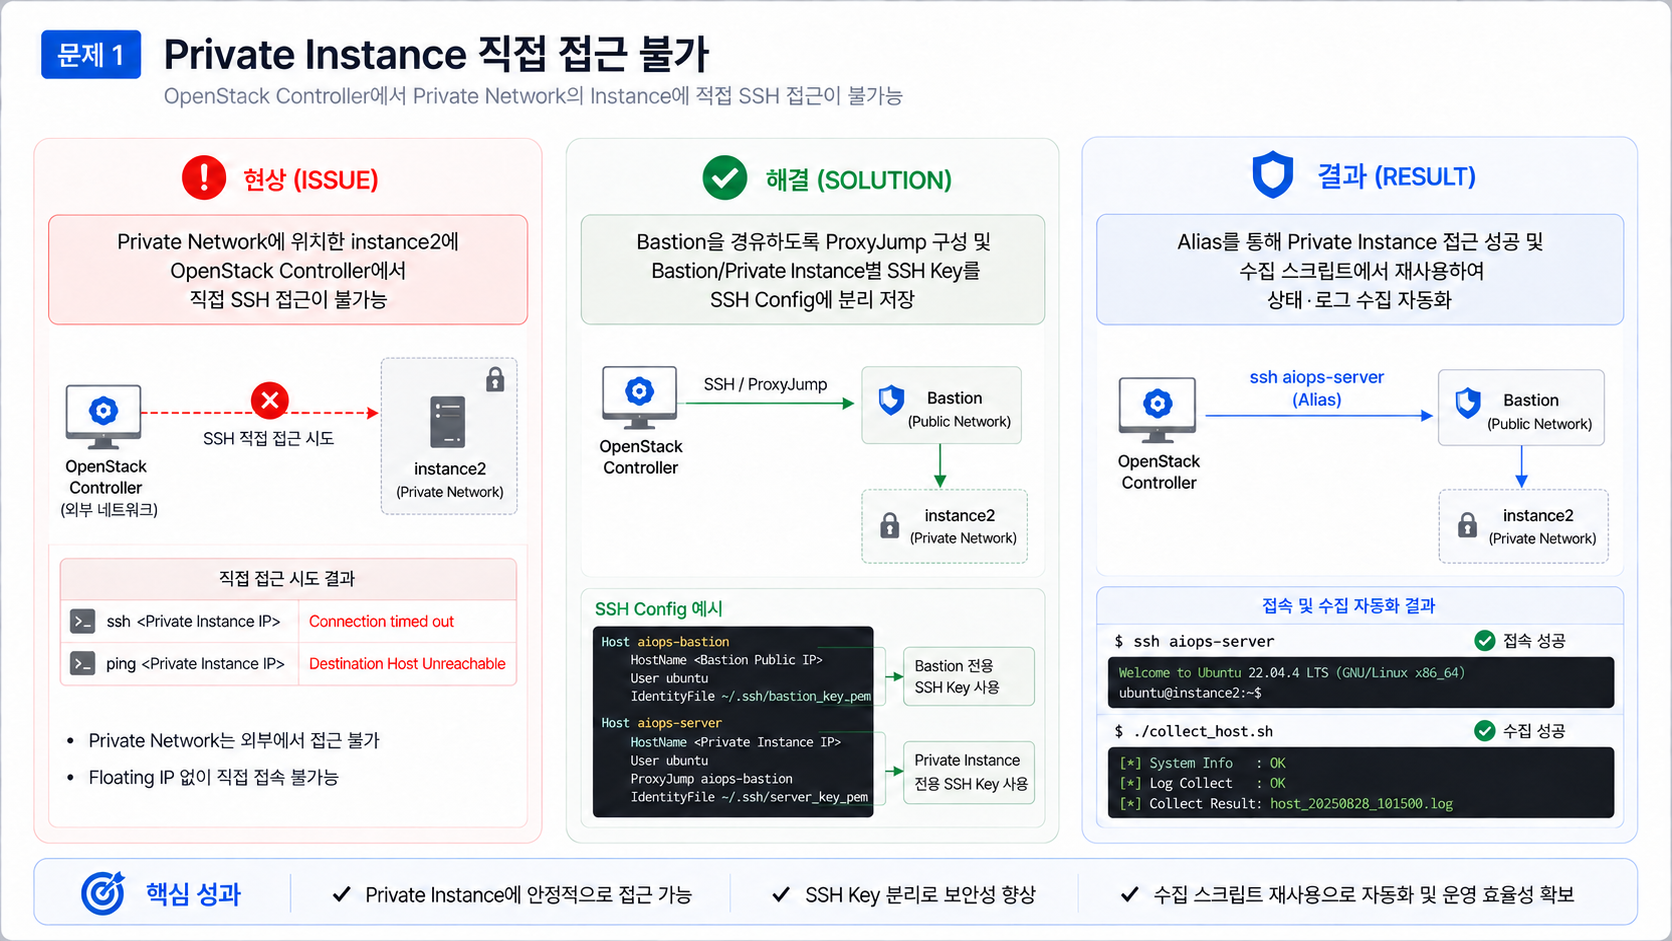
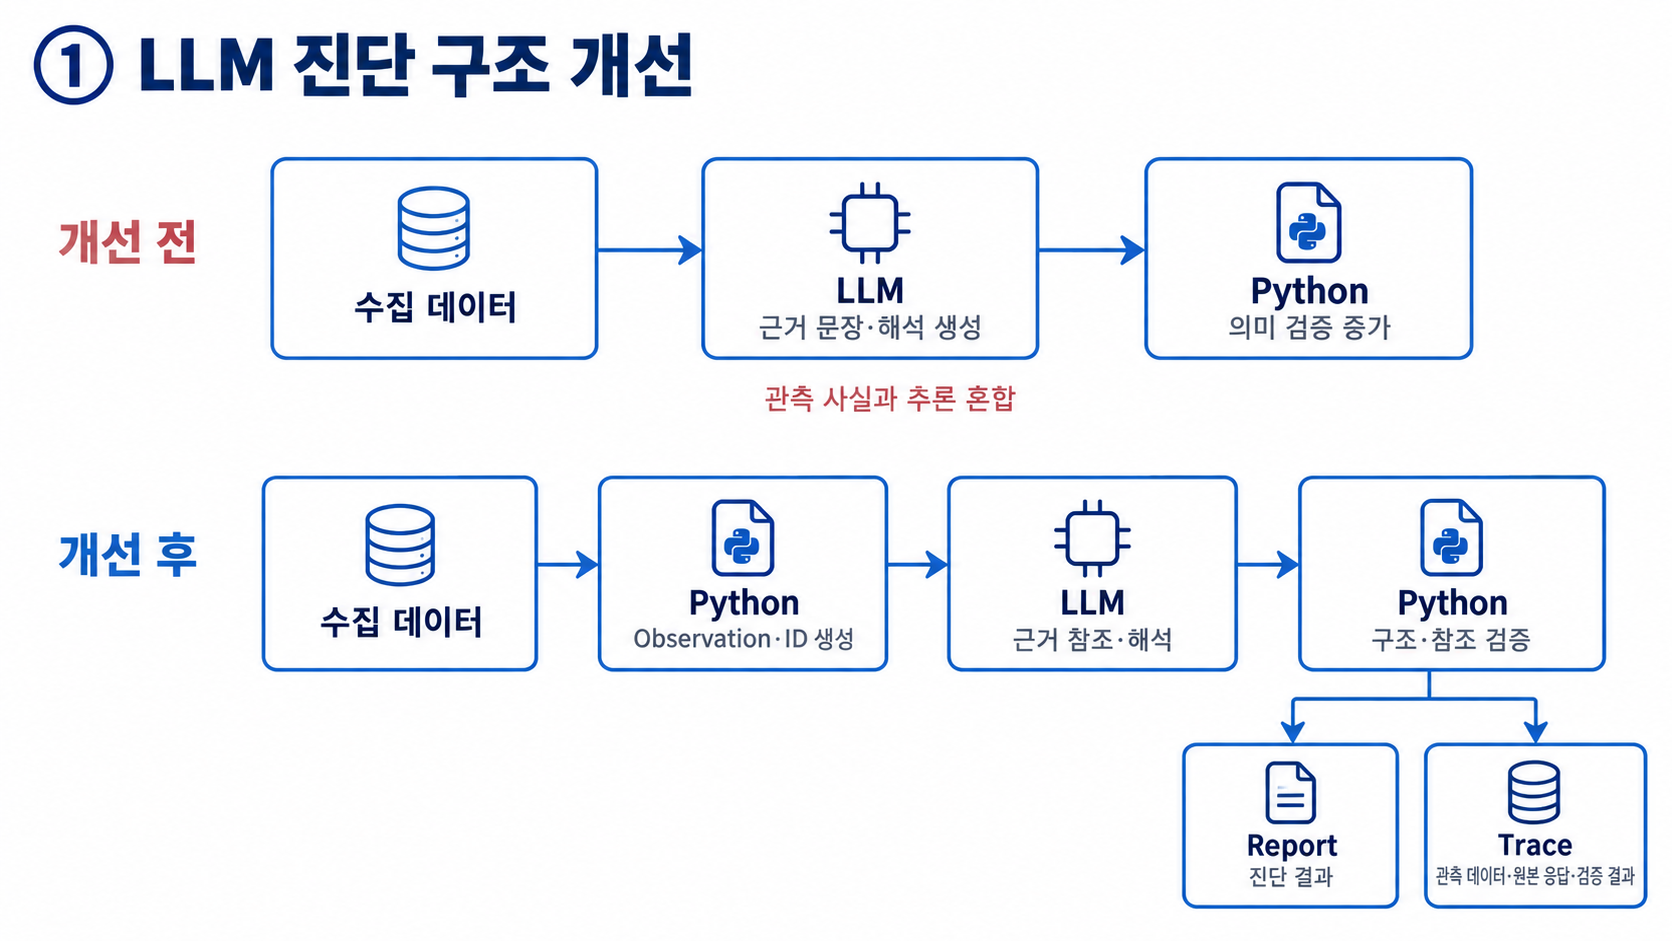
ReadME파일 수정
ReadME파일 수정

diff --git a/README.md b/README.md
@@ -2,7 +2,7 @@
 
 - **배경**
     
-    클라우드 장애 진단 시 서버, 네트워크, 로드밸런서 상태와 VM 내부 로그를 각각 확인해야 하며, 여러 위치에 분산된 정보를 운영자가 직접 종합해야 하는 반복 작업이 발생. 이를 줄이기 위해 OpenStack 리소스 상태와 Private Instance의 Linux 운영 데이터를 자동 수집하고, Desired State 기반 이상 탐지와 로컬 LLM 분석을 결합한 운영 진단 자동화 환경을 구축.
+    클라우드 장애 진단 시 서버, 네트워크, 로드밸런서 상태와 Private Instance 내부 로그를 각각 확인해야 하며, 여러 위치에 분산된 정보를 운영자가 직접 종합해야 하는 반복 작업이 발생. 이를 줄이기 위해 OpenStack 리소스 상태와 Private Instance의 Linux 운영 데이터를 자동 수집하고, Desired State 기반 이상 탐지와 로컬 LLM 분석을 결합한 운영 진단 자동화 환경을 구축.
     
 - **목표**
     1. OpenStack 리소스와 Private Instance의 상태·로그 자동 수집
